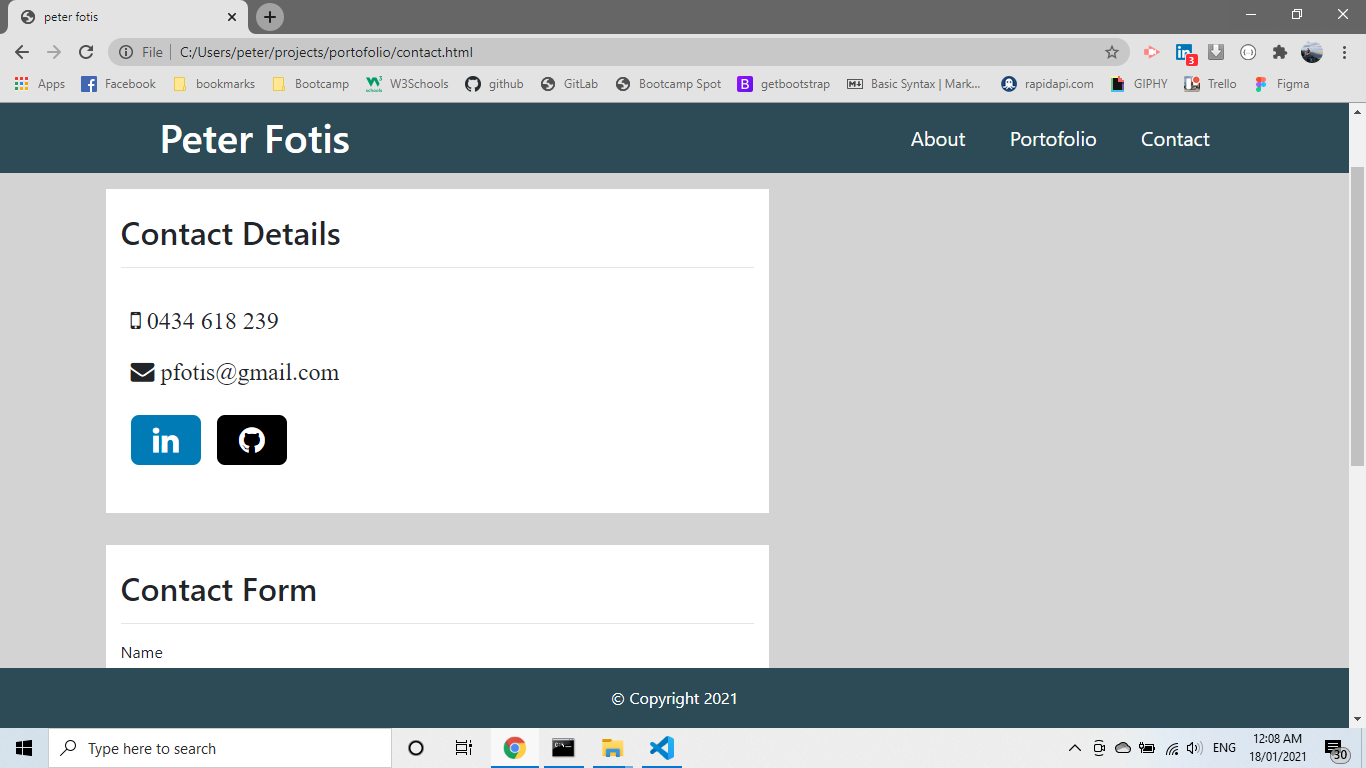
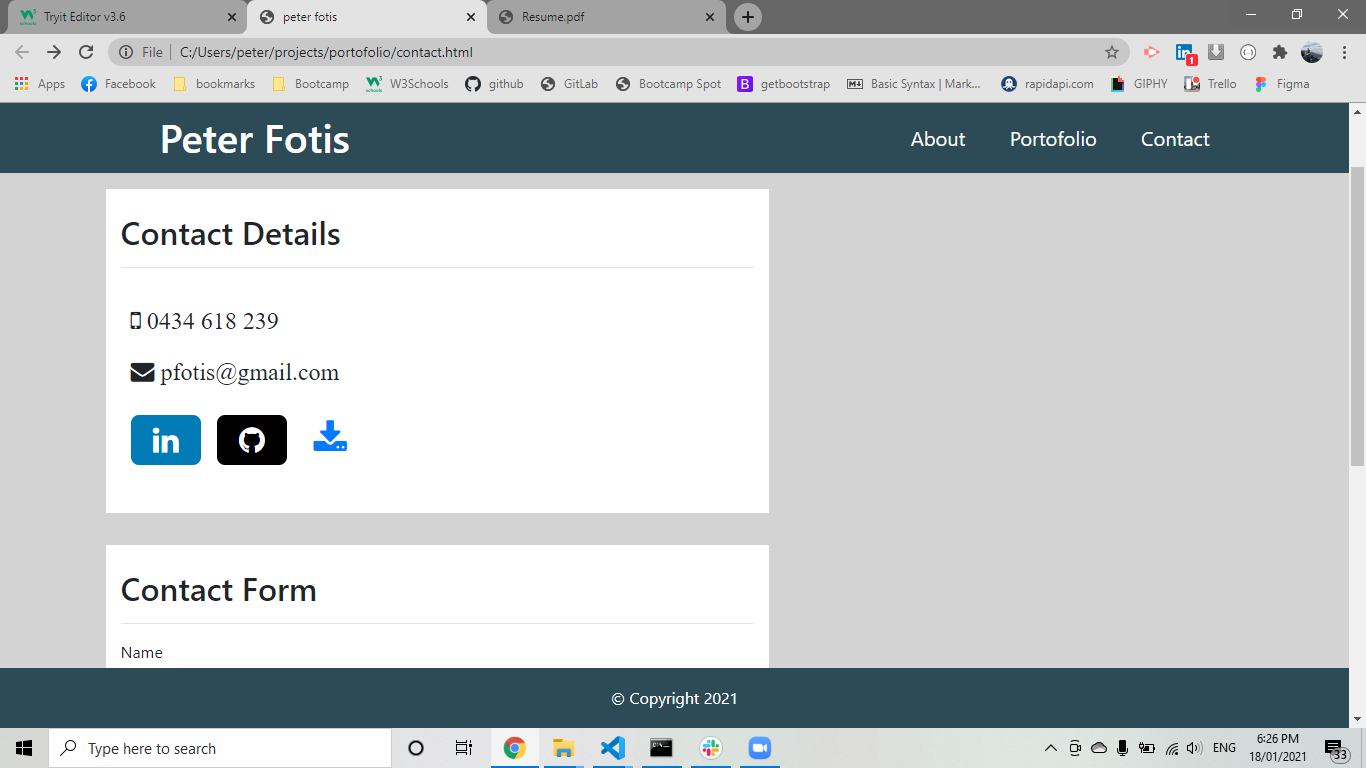
create readme file and add image to javascript for my portofolio assigment

diff --git a/assets/javascript/javascript.js b/assets/javascript/javascript.js
@@ -39,7 +39,7 @@ var assigments = [
     },
     {
         title : "Portofolio",
-        image : "./assets/image/portofolio/",
+        image : "./assets/image/portofolio/aboutMe.png",
         webpage : "https://pfotis.github.io/portofolio/",
         repository : "https://github.com/pfotis/portofolio"
     },

diff --git a/README.md b/README.md
@@ -1,23 +1,36 @@
-# 02-assigment
-
-This is the second project for the boot camp. There are 3 html files , css file , javascript file , folder with the images and the readme file.
-
- The Html files , all the files have the same navigation bar include the style and the menu. The footer is the same as style for all the html files and the body got the same background.
-
-    •	Index.hmtl . there is a container where included article “About me” and upload an image. The container has defferent background of the rest body. 
-    •	Contact.html, there is a container where included the contact form. Same as before the container has different background from the rest body.
-    •	Portofolio.html there is a container where included three row and each row two colums . at this page there are 5 images uploaded with each has label. The container has different background from the rest body additional the footer is smaller from the another two Html files.
-
-Css file there are 5 division in this file.
-
-    1.	This is section refers to all html files , navbar, footer, body.
-    2.	This is section refers exclusive to Index.html for the image style.
-    3.	This is section refers exclusive to Contact.html for the form.
-    4.	This is section refers exclusive to Portofolio.html with the same style for each image and for the same style for each label.
-    5.	The last section refers to @media this help the whole website to have different  response depending the device.
+# Portofolio
 
 
-Javascript file help to print message when the user submit at the form in the contact.html.
+link of repository :   https://github.com/pfotis/portofolio
 
-Additional included the CSS file and Javascript file from the getBootstrap.com .
-This Files the are not download to repository.
+link of webpage    :   https://pfotis.github.io/portofolio/
+
+As full stack developer i built my portofolio in the github to include my projects with links for the webpage and the repository for each individual project. Information about me , my study in the bootcamp and the past and my Knowledgment in the coding. Finaly contact there are link of my github account and my linkedin acount , my personal email and mobile number additional link to download my resume.
+
+The following images are from my portofolio desktop version and mobile version.
+
+###  Desktop 
+
+<img src="./assets/images/readme/aboutMe.png" alt="About me">
+
+<img src="./assets/images/readme/contact.png" alt="contact">
+
+<img src="./assets/images/readme/contact2.png" alt="contact">
+
+<img src="./assets/images/readme/portofolio.png" alt="portofolio">
+
+<img src="./assets/images/readme/portofolio2.png" alt="portofolio">
+
+
+###  Mobile 
+
+<img src="./assets/images/readme/mobileAboutMe.png" alt="About me">
+
+<img src="./assets/images/readme/mobileContact.png" alt="contact">
+
+<img src="./assets/images/readme/mobileContact2.png" alt="contact">
+
+<img src="./assets/images/readme/mobilePortofolio.png" alt="portofolio">
+
+<img src="./assets/images/readme/mobilePortofolio2.png" alt="portofolio">
+
